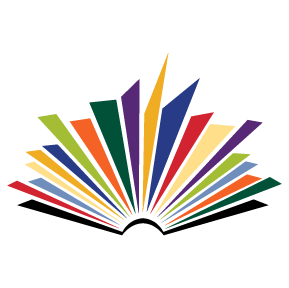
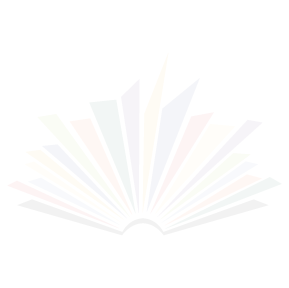
Make background semitransparent instead of using CSS

Changed region(s): [[0.0311, 0.1875, 0.9654, 0.8125]]

diff --git a/styles.css b/styles.css
@@ -10,12 +10,12 @@
     margin: 0;
     padding: 0;
 }
-html {
-    background: url(images/fccps.png) white repeat;
-    background-size: 150px;
+html, body {
+    min-height: 100%;
 }
 body {
-    background-color: rgba(255, 255, 255, 0.95);
+    background: url(images/bg.png) white repeat;
+    background-size: 150px;
     color: #333;
     padding: 20px 15px;
     font-size: 16px;
